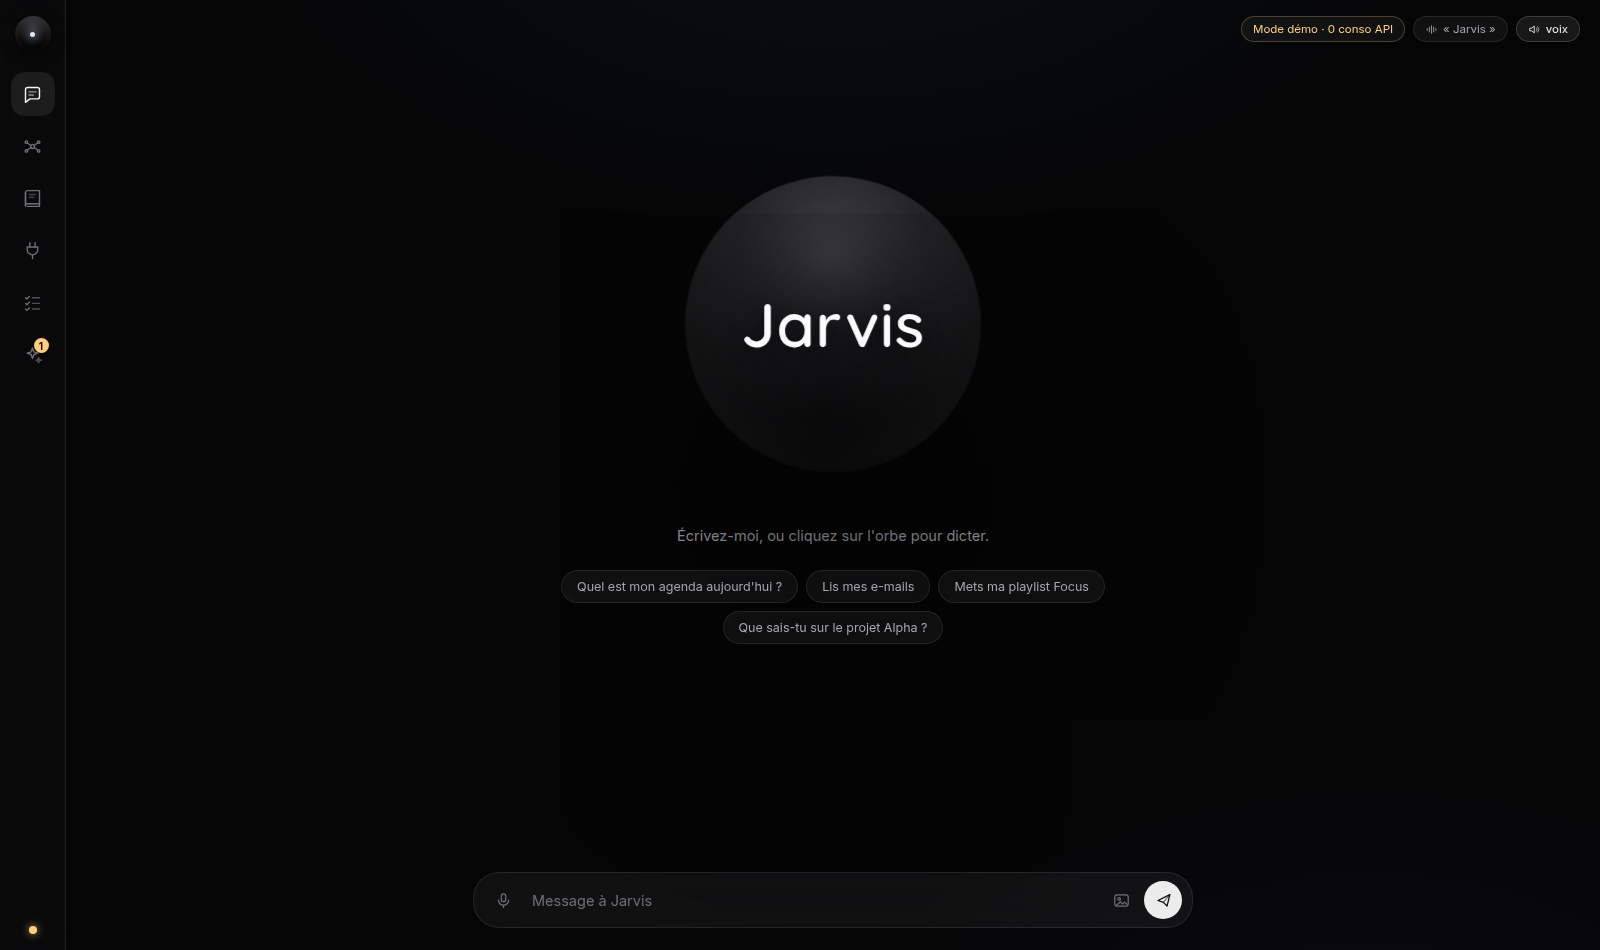
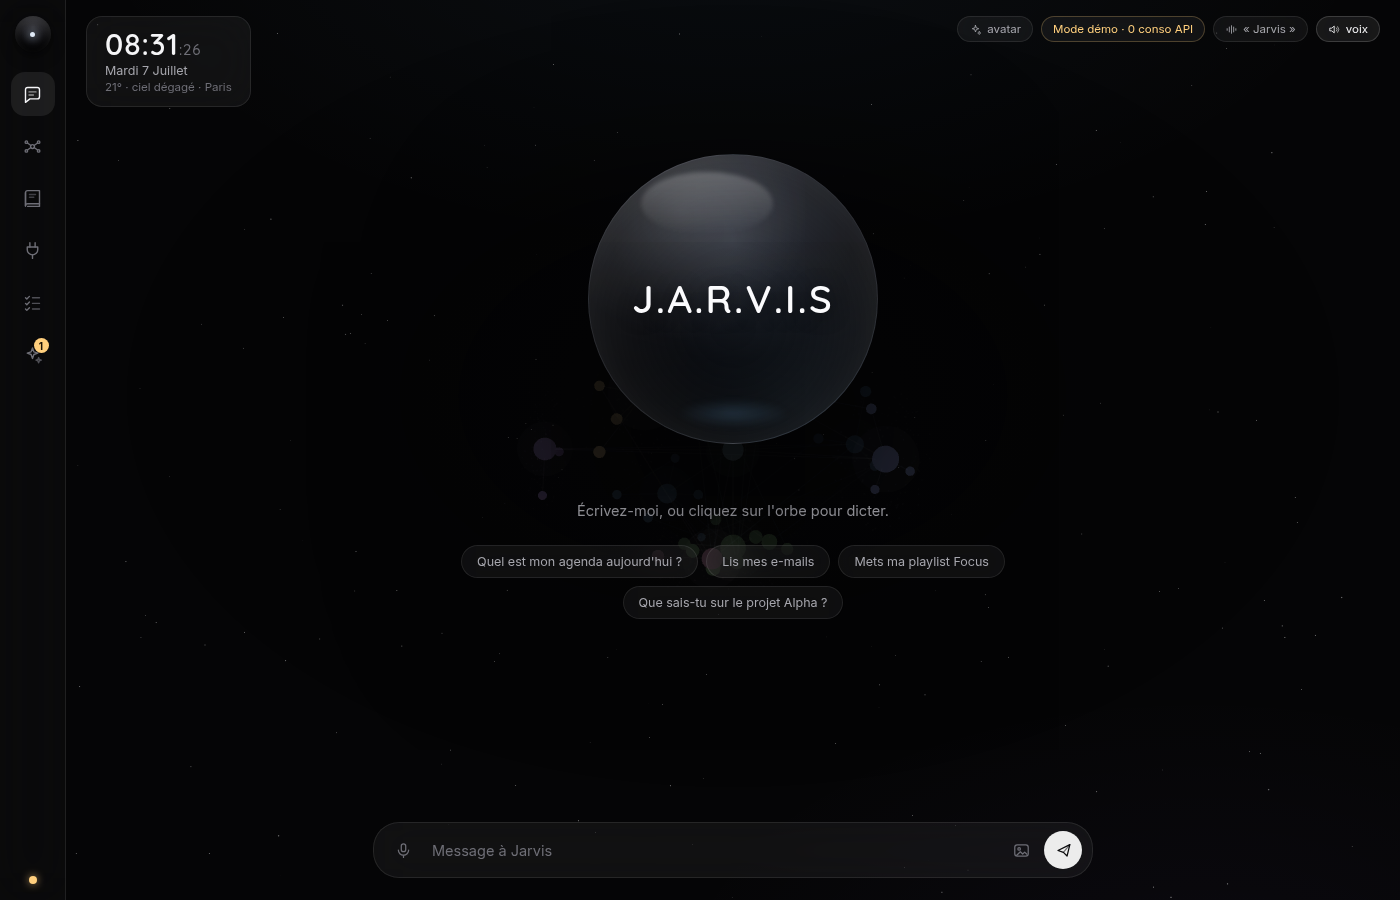
Accueil sans chevauchement + hologramme avec vraie illustration anime
- Le cerveau en fond d'accueil n'affiche plus aucune étiquette, caméra
  reculée, opacité réduite, vignette centrale : plus aucun chevauchement
  avec l'orbe, le texte et les suggestions.
- L'hologramme charge une vraie illustration anime :
  client/public/hologram.png en priorité, sinon l'illustration générée
  par IA (en ligne), sinon la silhouette vectorielle de secours. Noir
  rendu transparent (mix-blend-mode: screen), pulsation à la parole.

Claude-Session: https://claude.ai/code/session_01Lj7BJbD7f8hzQhmv1gKSEk

diff --git a/client/src/components/brain/BrainCanvas.tsx b/client/src/components/brain/BrainCanvas.tsx
@@ -43,7 +43,7 @@ function SpinGroup({ children }: { children: React.ReactNode }) {
 }
 
 /** Le cœur : JARVIS lui-même, au centre de toutes les galaxies. */
-function Core() {
+function Core({ label = true }: { label?: boolean }) {
   const ref = useRef<THREE.Mesh>(null);
   useFrame(({ clock }) => {
     if (ref.current) ref.current.scale.setScalar(1 + Math.sin(clock.elapsedTime * 2) * 0.08);
@@ -58,9 +58,11 @@ function Core() {
         <sphereGeometry args={[0.9, 16, 16]} />
         <meshBasicMaterial color="#57e6ff" transparent opacity={0.1} blending={THREE.AdditiveBlending} depthWrite={false} />
       </mesh>
-      <Html center position={[0, -1.9, 0]} zIndexRange={[2, 0]}>
-        <div className="core-label">◈ JARVIS</div>
-      </Html>
+      {label && (
+        <Html center position={[0, -1.9, 0]} zIndexRange={[2, 0]}>
+          <div className="core-label">◈ JARVIS</div>
+        </Html>
+      )}
     </group>
   );
 }
@@ -156,7 +158,7 @@ function ClusterDust({ layout }: { layout: GalaxyLayout }) {
   );
 }
 
-function Hubs({ layout }: { layout: GalaxyLayout }) {
+function Hubs({ layout, labels = true }: { layout: GalaxyLayout; labels?: boolean }) {
   const nodes = useJarvis((s) => s.nodes);
   const selectNode = useJarvis((s) => s.selectNode);
   const hubs = nodes.filter((n) => n.type === "hub");
@@ -166,6 +168,7 @@ function Hubs({ layout }: { layout: GalaxyLayout }) {
         <Hub
           key={h.id}
           node={h}
+          labels={labels}
           position={layout.positions.get(h.id) ?? new THREE.Vector3()}
           scale={layout.sizes.get(h.id) ?? 1.5}
           count={layout.members.get(h.id)?.length ?? 0}
@@ -182,12 +185,14 @@ function Hub({
   scale,
   count,
   onSelect,
+  labels = true,
 }: {
   node: BrainNode;
   position: THREE.Vector3;
   scale: number;
   count: number;
   onSelect: () => void;
+  labels?: boolean;
 }) {
   const ref = useRef<THREE.Mesh>(null);
   const seed = useMemo(() => Math.random() * Math.PI * 2, []);
@@ -214,13 +219,15 @@ function Hub({
         <sphereGeometry args={[0.42, 16, 16]} />
         <meshBasicMaterial color={color} transparent opacity={0.09} blending={THREE.AdditiveBlending} depthWrite={false} />
       </mesh>
-      <Html center position={[0, -(scale * 0.6 + 1.1), 0]} zIndexRange={[2, 0]}>
-        <div className="hub-label" onClick={onSelect}>
-          <span className="hub-dot" style={{ background: color, boxShadow: `0 0 8px ${color}` }} />
-          {node.label}
-          <span className="hub-count">{count}</span>
-        </div>
-      </Html>
+      {labels && (
+        <Html center position={[0, -(scale * 0.6 + 1.1), 0]} zIndexRange={[2, 0]}>
+          <div className="hub-label" onClick={onSelect}>
+            <span className="hub-dot" style={{ background: color, boxShadow: `0 0 8px ${color}` }} />
+            {node.label}
+            <span className="hub-count">{count}</span>
+          </div>
+        </Html>
+      )}
     </group>
   );
 }
@@ -372,7 +379,7 @@ export function GalaxyScene({ backdrop = false }: { backdrop?: boolean }) {
   const selectNode = useJarvis((s) => s.selectNode);
   return (
     <Canvas
-      camera={{ position: backdrop ? [0, 16, 56] : [0, 11, 40], fov: 50 }}
+      camera={{ position: backdrop ? [0, 20, 74] : [0, 11, 40], fov: 50 }}
       dpr={[1, backdrop ? 1.25 : 1.75]}
       onPointerMissed={backdrop ? undefined : () => selectNode(null, false)}
     >
@@ -380,10 +387,10 @@ export function GalaxyScene({ backdrop = false }: { backdrop?: boolean }) {
       <fog attach="fog" args={["#04070d", 45, 110]} />
       <Stars radius={110} depth={50} count={backdrop ? 1800 : 3000} factor={3.4} saturation={0} fade speed={0.3} />
       <SpinGroup>
-        <Core />
+        <Core label={!backdrop} />
         <Edges layout={layout} />
         <ClusterDust layout={layout} />
-        <Hubs layout={layout} />
+        <Hubs layout={layout} labels={!backdrop} />
         <NodeCloud layout={layout} />
         {!backdrop && <NearLabels layout={layout} />}
       </SpinGroup>

diff --git a/client/src/components/Hologram.tsx b/client/src/components/Hologram.tsx
@@ -1,4 +1,17 @@
+import { useState } from "react";
 import { useJarvis } from "../state";
+
+/**
+ * Visuel : une vraie illustration anime est utilisée si disponible —
+ *  1. `client/public/hologram.png` (votre image locale, prioritaire) ;
+ *  2. l'illustration générée par IA (en ligne) ;
+ *  3. à défaut, la silhouette vectorielle de secours.
+ * Le noir de l'image devient transparent (mix-blend-mode: screen).
+ */
+const IMAGE_SOURCES = [
+  "/hologram.png",
+  "https://im.runware.ai/image/os/a03d21/ws/3/ii/58994107-66e8-4858-995d-32983289c174.jpg",
+];
 
 /**
  * L'hologramme — une présence numérique stylisée (inspiration : Norma,
@@ -9,6 +22,7 @@ import { useJarvis } from "../state";
  */
 export default function Hologram({ size = 300, onClick }: { size?: number; onClick?: () => void }) {
   const orbState = useJarvis((s) => s.orbState);
+  const [srcIdx, setSrcIdx] = useState(0);
 
   return (
     <div
@@ -20,6 +34,16 @@ export default function Hologram({ size = 300, onClick }: { size?: number; onCli
       title="Dites « Jarvis » ou cliquez pour parler"
     >
       <div className="holo-glow" />
+      {srcIdx < IMAGE_SOURCES.length && (
+        <img
+          className="holo-img"
+          src={IMAGE_SOURCES[srcIdx]}
+          alt=""
+          draggable={false}
+          onError={() => setSrcIdx((i) => i + 1)}
+        />
+      )}
+      {srcIdx >= IMAGE_SOURCES.length && (
       <svg viewBox="0 0 200 236" className="holo-svg" aria-hidden>
         <defs>
           <linearGradient id="holoBody" x1="0" y1="0" x2="0" y2="1">
@@ -95,6 +119,7 @@ export default function Hologram({ size = 300, onClick }: { size?: number; onCli
         <path d="M68 96 C66 130 62 150 56 164 C68 158 74 138 76 112 Z" fill="url(#holoHair)" opacity="0.8" />
         <path d="M132 96 C134 130 138 150 144 164 C132 158 126 138 124 112 Z" fill="url(#holoHair)" opacity="0.8" />
       </svg>
+      )}
 
       {/* effets de projection */}
       <div className="holo-scanlines" />

diff --git a/client/src/theme.css b/client/src/theme.css
@@ -244,8 +244,15 @@ button { font-family: inherit; }
   position: absolute;
   inset: 0;
   z-index: 0;
-  opacity: 0.6;
+  opacity: 0.45;
   pointer-events: none;
+}
+/* vignette : le centre reste dégagé pour l'assistant et le texte */
+.galaxy-backdrop::after {
+  content: "";
+  position: absolute;
+  inset: 0;
+  background: radial-gradient(ellipse 46% 44% at 50% 44%, rgba(5, 5, 6, 0.82), transparent 100%);
 }
 .home-center, .thread, .composer-zone, .home-status, .hud { position: relative; z-index: 2; }
 
@@ -337,6 +344,21 @@ button { font-family: inherit; }
 }
 @keyframes holo-float { 0%, 100% { transform: translateY(0); } 50% { transform: translateY(-6px); } }
 .holo-svg { width: 100%; height: 100%; }
+.holo-img {
+  width: 100%; height: 100%;
+  object-fit: contain;
+  /* le noir de l'illustration disparaît sur notre fond sombre */
+  mix-blend-mode: screen;
+  /* fondu holographique vers la base */
+  -webkit-mask-image: linear-gradient(180deg, #000 0%, #000 78%, transparent 100%);
+  mask-image: linear-gradient(180deg, #000 0%, #000 78%, transparent 100%);
+  filter: brightness(1.04) saturate(1.05);
+  pointer-events: none;
+}
+.holo.speaking .holo-img { animation: holo-img-speak 0.5s ease-in-out infinite alternate; }
+@keyframes holo-img-speak { from { filter: brightness(1.02) saturate(1.05); } to { filter: brightness(1.22) saturate(1.2); } }
+.holo.listening .holo-img { filter: brightness(1.14) saturate(1.15) drop-shadow(0 0 16px rgba(110, 200, 255, 0.5)); }
+.holo.thinking .holo-img { animation: holo-flicker 2.4s steps(18) infinite; }
 .holo-glow {
   position: absolute; inset: -12%;
   background: radial-gradient(ellipse at 50% 42%, rgba(90, 180, 255, 0.16), transparent 62%);
